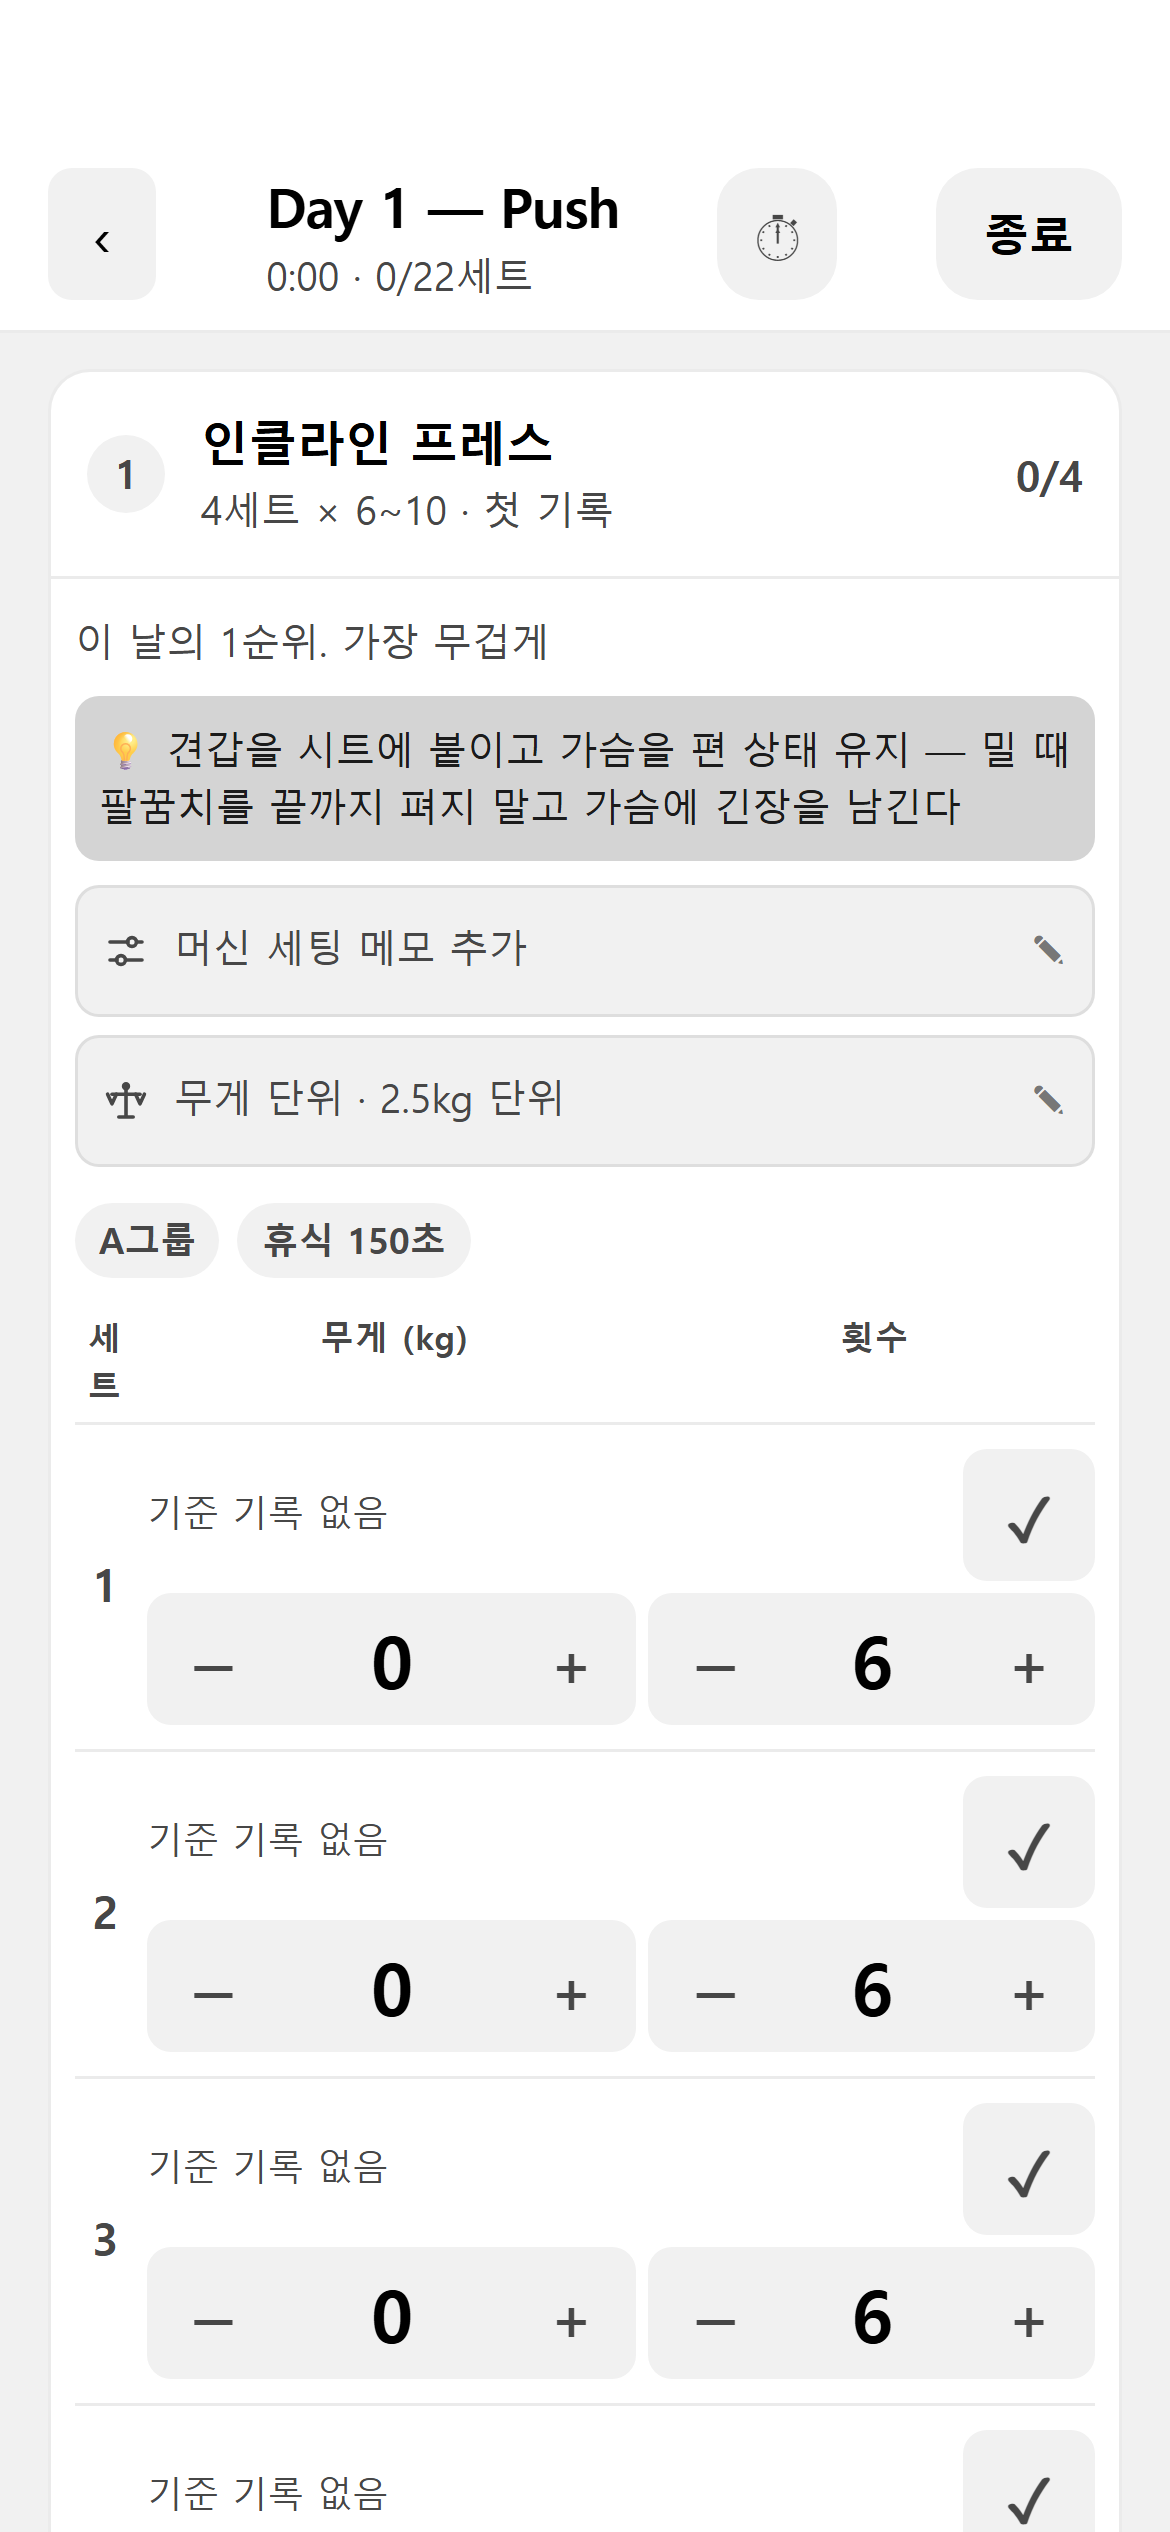
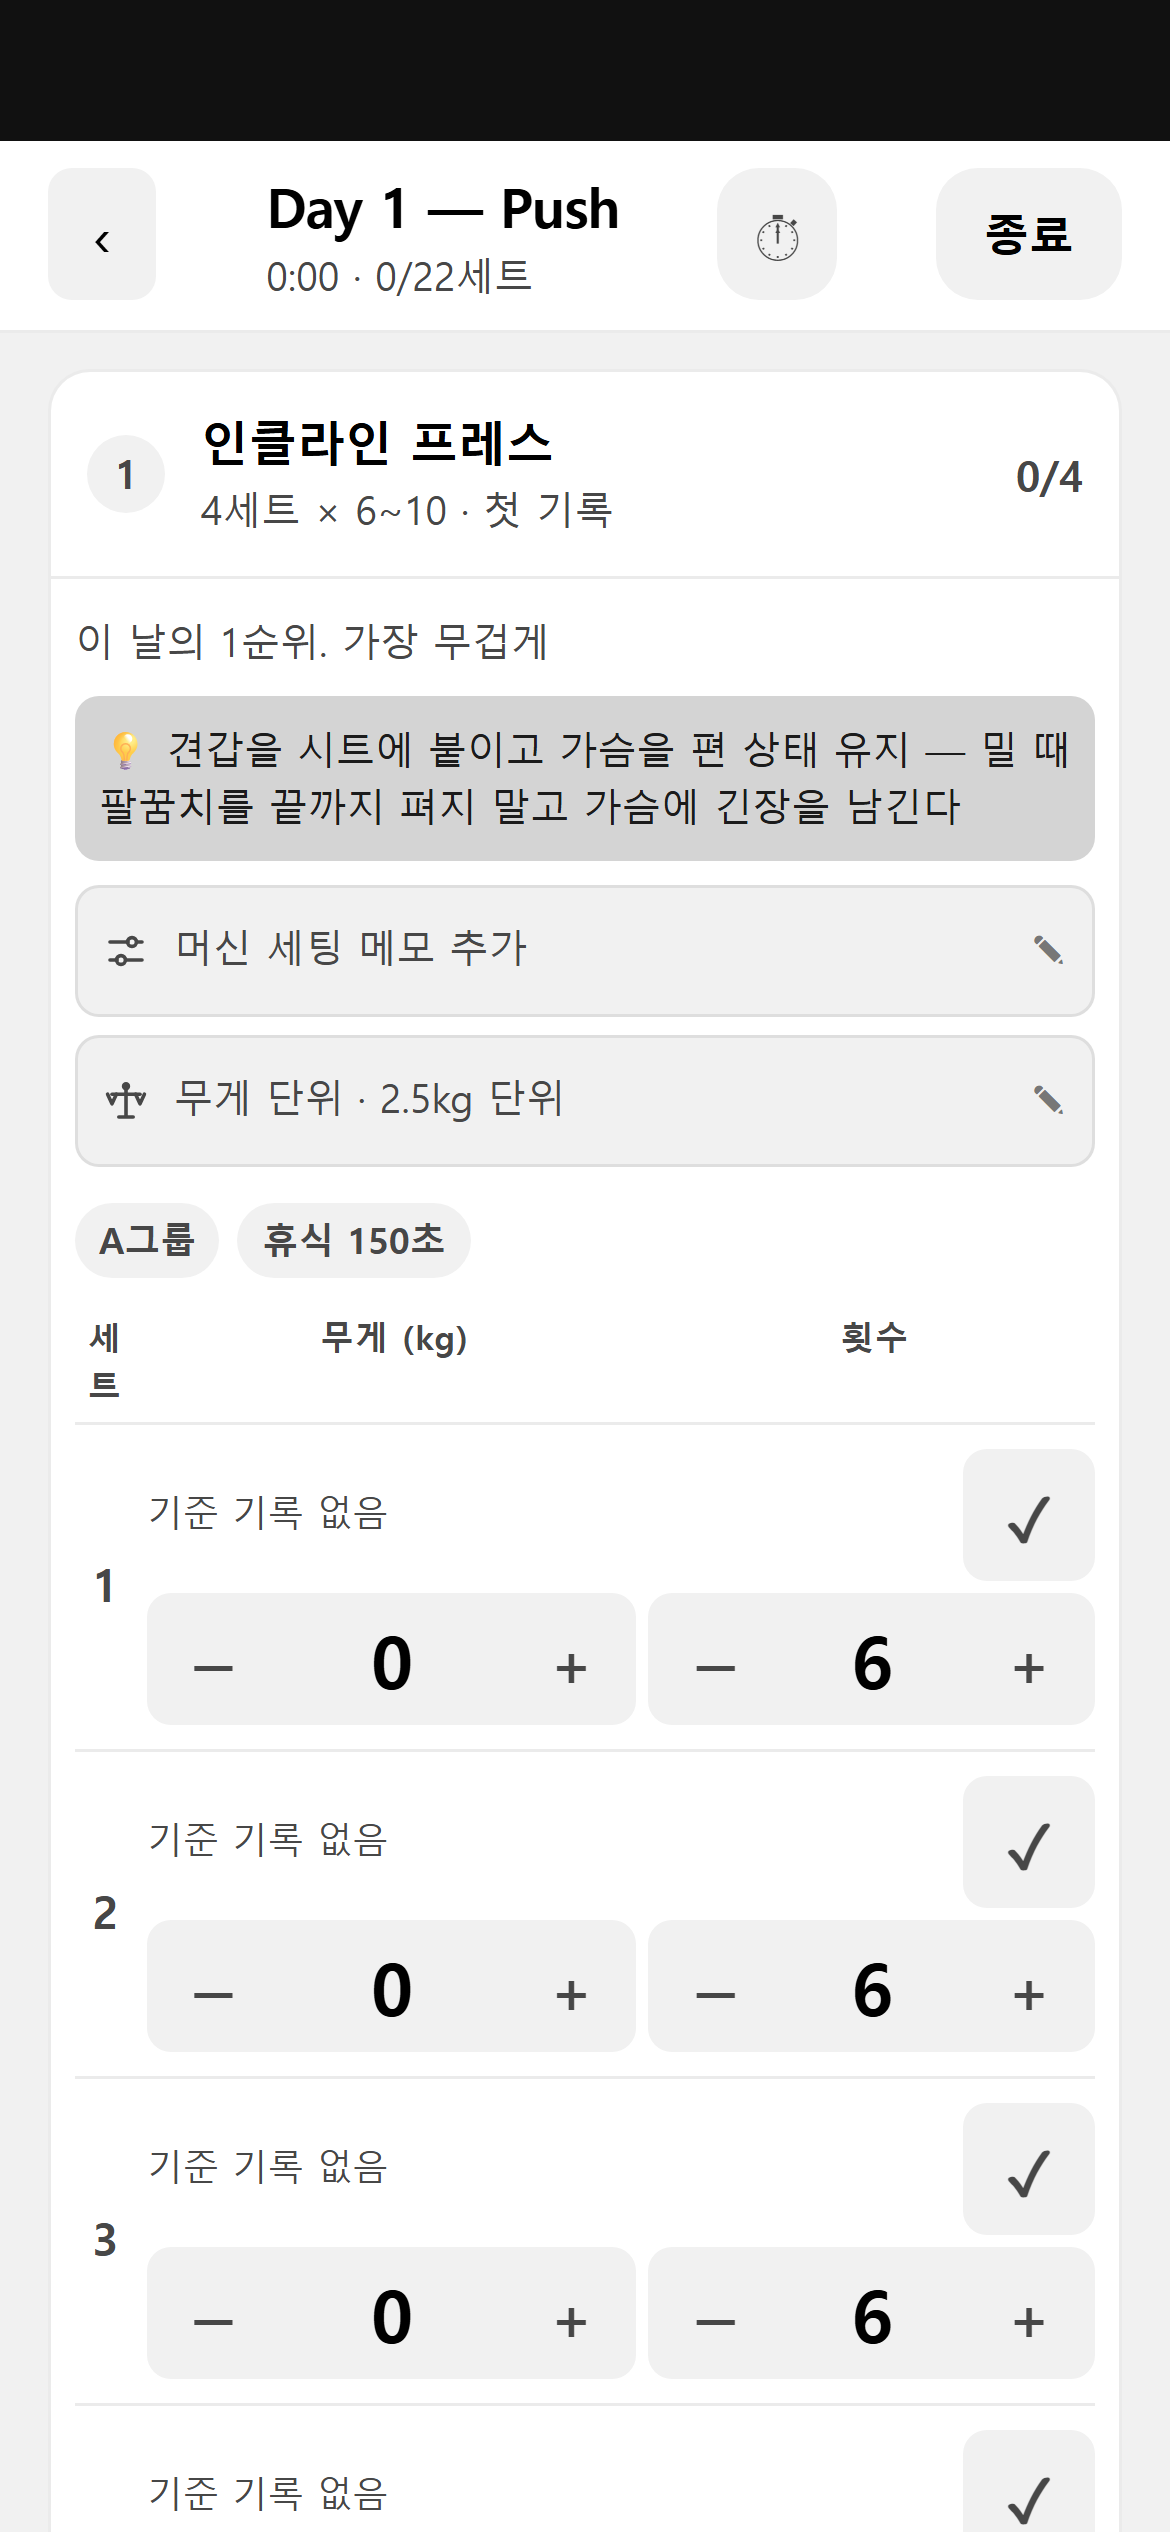
fix(RR11): 상태바 받침이 세션 머리·시트 막 위에 그려지게, 검사가 그려진 픽셀·앱 제목 색을 재게 (PLAN v1.20 리뷰 반영)

Changed region(s): [[0.0, 0.0, 1.0, 0.0624]]

diff --git a/src/ax/ax.css b/src/ax/ax.css
@@ -188,7 +188,7 @@
       height: env(safe-area-inset-top);
       background: var(--color-on-light);
       pointer-events: none;
-      z-index: 1;
+      z-index: 100;
     }
   }
 }
